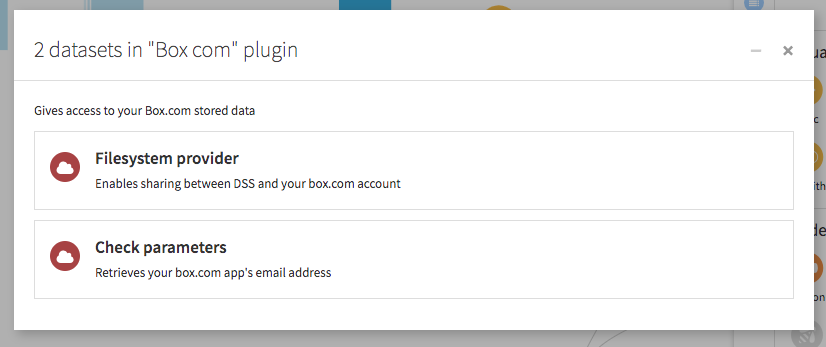
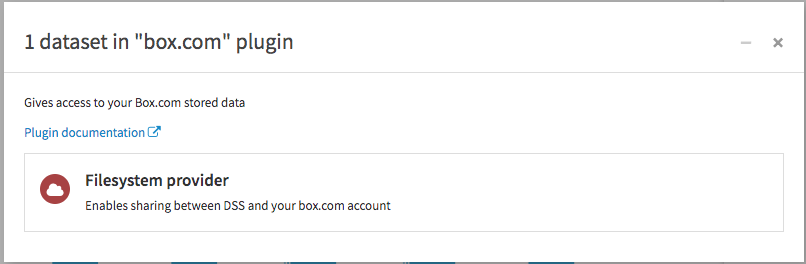
Code cleaning, connector replaced with macro, documentation updated

Changed region(s): [[0.0, 0.0, 1.0, 1.0]]

diff --git a/python-fs-providers/box-com_box-com/fs-provider.py b/python-fs-providers/box-com_box-com/fs-provider.py
@@ -47,18 +47,6 @@ class BoxComFSProvider(FSProvider):
             return self.root_lnt
         else:
             return self.root_lnt + normalized_path
-
-    def load_cache(self):
-        try:
-            print ('ALX:load_cache:1')
-            with open(self.cache_location, "r") as file_handle:
-                self.cache = json.load(file_handle)
-                print ('ALX:load_cache:2')
-                file_handle.close()
-        except:
-            print ('ALX:load_cache:3')
-            self.cache = {}
-        print ('ALX:load_cache:4:{0}'.format(self.cache))
     
     def close(self):
         """
@@ -164,7 +152,6 @@ class BoxComFSProvider(FSProvider):
         
         If the prefix doesn't denote a file or folder, return None
         """
-        
         full_path = self.get_full_path(path)
         normalized_path = self.get_normalized_path(path)
         item_id = '0'

diff --git a/README.md b/README.md
@@ -36,11 +36,11 @@ In order to use the plugin, the administrator of the box.com account will have t
 ![](images/app_config.png)
 
 Once you have you User ID, Client ID and access token, you will be able to retrieve the app's sharing email address. To do so:
-1. Inside a DSS project, create a Box.com dataset
-![](images/create_dataset.png)
-2. Select **Check Parameters**
-![](images/plugin.png)
-3. Fill in the connection credentials and press **Test & get schema**
+1. Inside a DSS project, go to the **Macros** menu
+![](images/macro_menu.png)
+2. Select the **Get Box.com sharing email** macro
+![](images/select_macro.png)
+3. Fill in the connection credentials and press **Run Macro**
 > To avoid filling in the connection details in every box.com dataset of your project, your can instead set them as project variables as :
 ```json
 {
@@ -54,6 +54,9 @@ Once you have you User ID, Client ID and access token, you will be able to retri
 
 To make files visible to DSS, you will need to share them from your box account with this email address.
 
-Once this is done, you can create a new dataset using the box.com plugin. Choose the Filesystem provider, and fill in the details copied from the app configuration panel.
-
+Once this is done, you can create a new dataset using the box.com plugin. First, create the dataset by picking box.com in the dataset section :
+![](images/create_dataset.png)
+Choose the Filesystem provider, and fill in the details copied from the app configuration panel.
+![](images/plugin.png)
 From the connector's *Settings > Files* panel, you should now be able to browser your box directory and select the file or directory you want to access.
+![](images/browsing.png)
